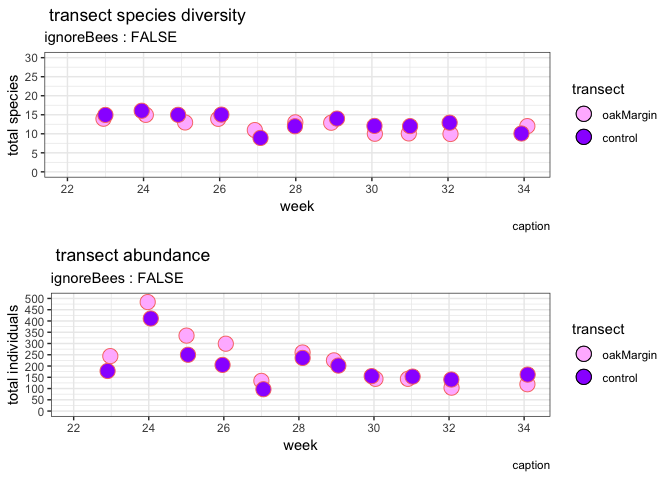
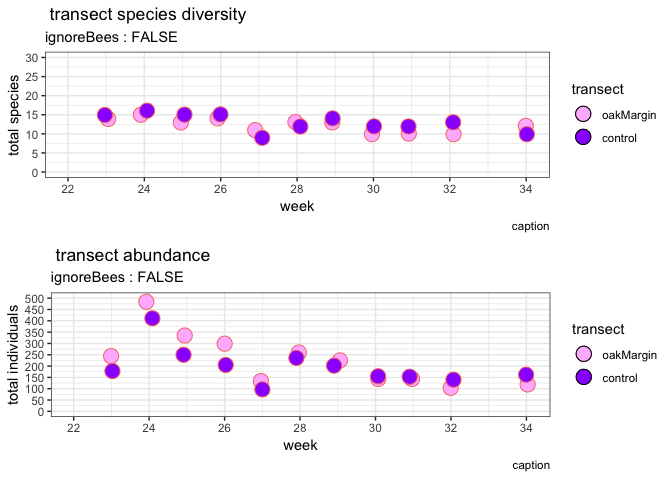
readme...

diff --git a/README.md b/README.md
@@ -94,7 +94,7 @@ grid.arrange(cl1.gg, cl2.gg, ncol=2, nrow=1)
 <img src="ampelos_files/figure-markdown_github/unnamed-chunk-7-1.png" width="100%" />
 
 ``` r
-if (FALSE) {
+if (TRUE) {
   #source('./code/bayes.R')
 
   returnList <- evaluateDailySpiderCounts(bugs.df)
@@ -113,6 +113,19 @@ if (FALSE) {
 
 }
 ```
+
+![](ampelos_files/figure-markdown_github/unnamed-chunk-8-1.png)![](ampelos_files/figure-markdown_github/unnamed-chunk-8-2.png)
+
+    ## 
+    ##  Pairwise comparisons using Wilcoxon rank sum test 
+    ## 
+    ## data:  lh.df$likelihood and lh.df$seasonalTimeframe 
+    ## 
+    ##       one two
+    ## two   1   -  
+    ## three 1   1  
+    ## 
+    ## P value adjustment method: BH
 
 using the control transect as a baseline, how do the populations in the primary transect segments compare over time? (cluster analysis suggests trap segments 1-4, 5-7, and 8-10)
 ---------------------------------------------------------------------------------------------------------------------------------------------------------------------------------
